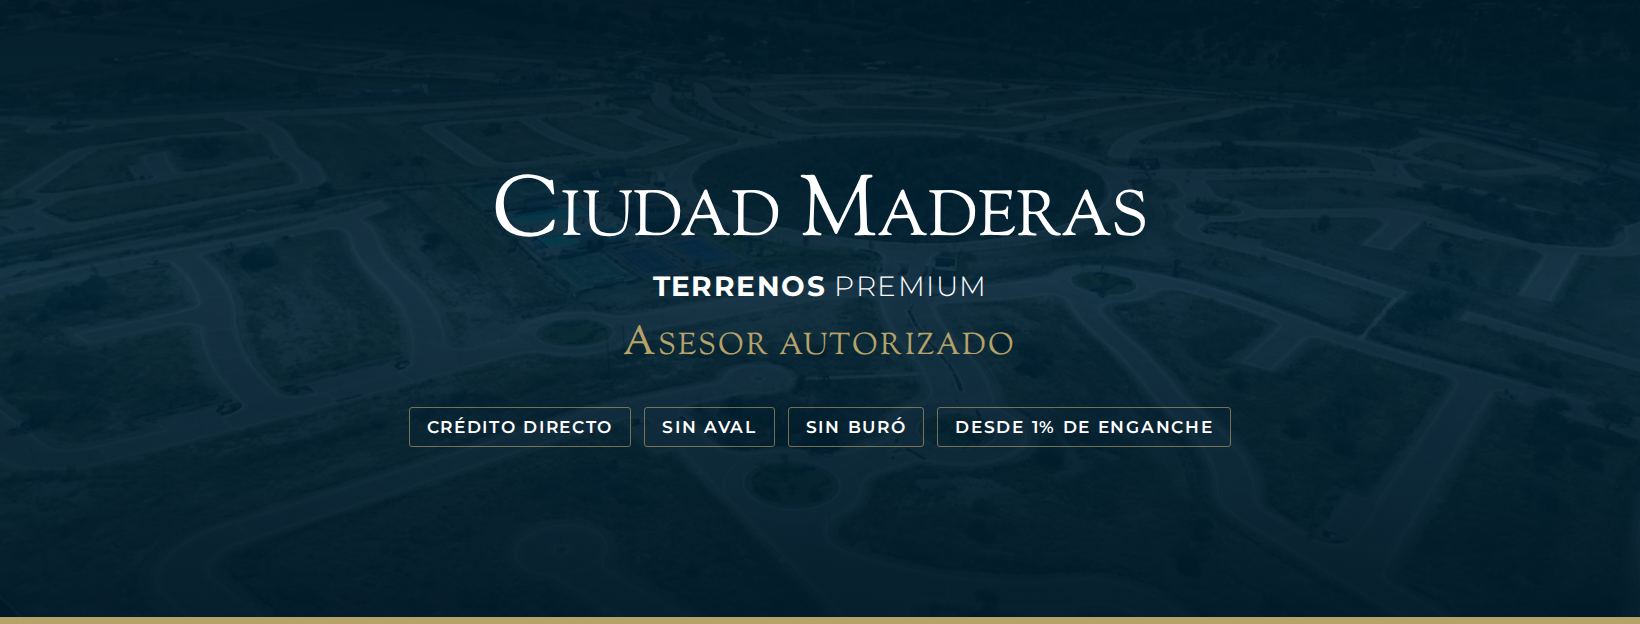
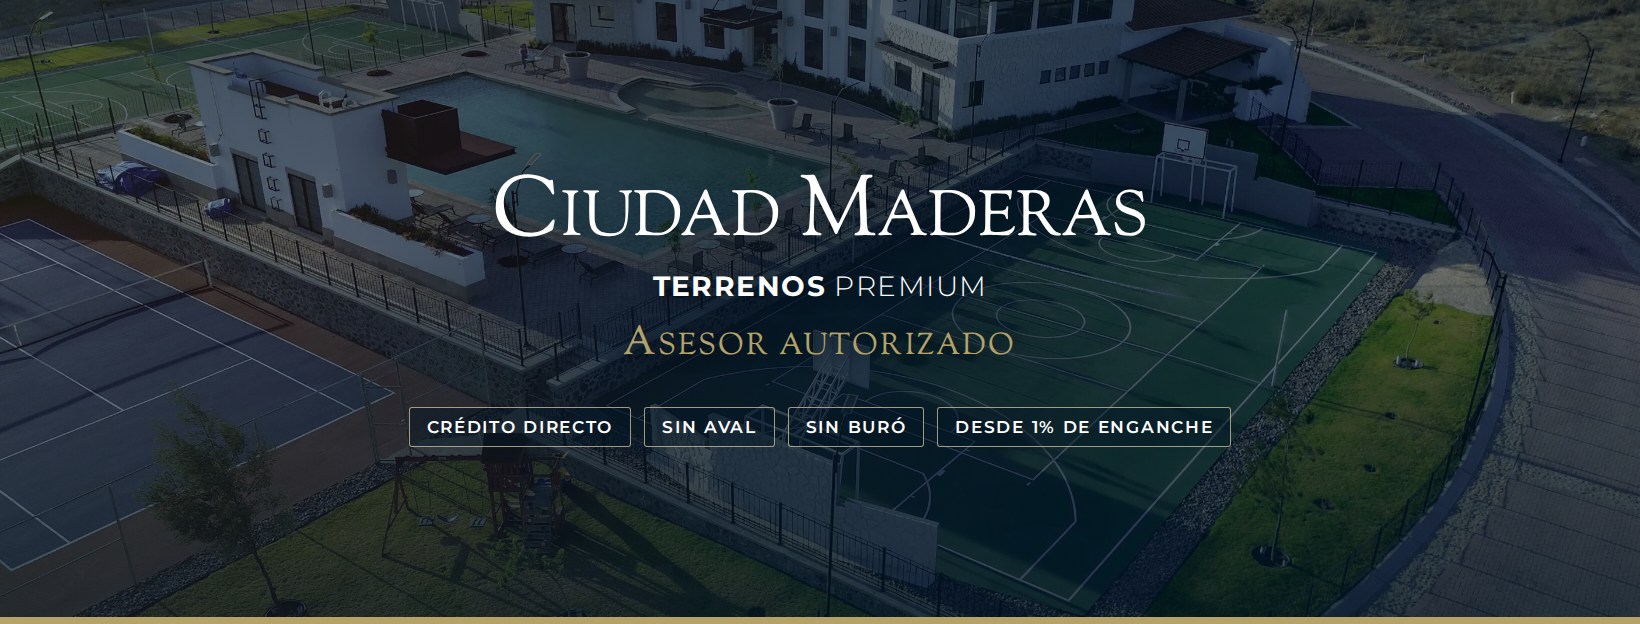
marca: la portada de Facebook va sobre una foto real de un desarrollo
Antes la foto era un fondo casi invisible (opacidad .38 bajo una cortina
lineal): no se distinguía qué era, que era justamente el punto de ponerla.

Ahora usa la casa club aérea del bucket de Ciudad Maderas —alberca, cancha
de tenis y de fútbol en una sola toma, la única de ocho candidatas que dice
"comunidad con amenidades" completa en formato ancho— a opacidad .92, con un
velo radial centrado que oscurece solo debajo del texto. El candado y los
cuatro sellos llevan sombra propia para sostenerse sobre la foto.

Verificado en los dos recortes que hace Facebook: en computadora (820x312) y
en la franja central del celular se leen completos el nombre, los dos
renglones de abajo y los cuatro sellos.

Claude-Session: https://claude.ai/code/session_018vHmmmDsoEfgzHDXUQjXcv

diff --git a/marca/marca.py b/marca/marca.py
@@ -21,7 +21,10 @@ FUENTE_URL = {
     # Las mismas dos familias que carga ciudadmaderas.com.
     "mont.woff2": "https://fonts.gstatic.com/s/montserrat/v31/JTUSjIg1_i6t8kCHKm459Wlhyw.woff2",
     "goudy.woff2": "https://fonts.gstatic.com/s/sortsmillgoudy/v16/Qw3GZR9MED_6PSuS_50nEaVrfzgEbHoEjw.woff2",
-    "aerea.webp": "https://storage.googleapis.com/landing-ciudad-maderas/mapa/desarrollo.webp",
+    # Casa club de un desarrollo real, desde el aire: alberca, cancha de tenis y
+    # de fútbol en una sola toma. Es la foto que mejor dice "comunidad con
+    # amenidades" en el formato ancho de una portada.
+    "desarrollo.webp": "https://storage.googleapis.com/landing-ciudad-maderas/website-ciudad-maderas/somos/colinas-1.webp",
 }
 
 
@@ -37,7 +40,7 @@ b64 = lambda p: base64.b64encode(open(p, "rb").read()).decode()
 
 MONT = b64(insumo("mont.woff2"))
 GOUDY = b64(insumo("goudy.woff2"))
-FOTO = b64(insumo("aerea.webp"))
+FOTO = b64(insumo("desarrollo.webp"))
 
 # Muestreados de la foto de perfil real de Ciudad Maderas.
 AZUL, AZUL2, ORO = "#11253a", "#001a28", "#b4a269"
@@ -52,12 +55,13 @@ FUENTES = f"""
 # más chico. La fuente web no trae versalitas de verdad, así que se arman con
 # dos tamaños — que es exactamente como se ve en su logo original.
 CAJA = """
-.vs{font-family:Goudy,Georgia,serif;color:#fff;line-height:.90;white-space:nowrap}
+.vs{font-family:Goudy,Georgia,serif;color:#fff;line-height:.90;white-space:nowrap;
+     text-shadow:0 2px 24px rgba(0,20,32,.75)}
 .vs i{font-style:normal;font-size:.74em}
-.bajada{font-family:Mont,sans-serif;color:#fff;white-space:nowrap}
+.bajada{font-family:Mont,sans-serif;color:#fff;white-space:nowrap;text-shadow:0 2px 16px rgba(0,20,32,.8)}
 .bajada b{font-weight:700}
 .bajada span{font-weight:300}
-.rol{font-family:Goudy,Georgia,serif;color:%s;white-space:nowrap}
+.rol{font-family:Goudy,Georgia,serif;color:%s;white-space:nowrap;text-shadow:0 2px 16px rgba(0,20,32,.8)}
 .rol i{font-style:normal;font-size:.74em}
 """ % ORO
 
@@ -124,15 +128,18 @@ PORTADA = f"""<!doctype html><meta charset="utf-8"><style>
 *{{margin:0;padding:0;box-sizing:border-box}}
 body{{width:1640px;height:624px;overflow:hidden}}
 .c{{width:1640px;height:624px;position:relative;background:{AZUL2};overflow:hidden}}
-.c>img{{position:absolute;inset:0;width:100%;height:100%;object-fit:cover;opacity:.38}}
-.velo{{position:absolute;inset:0;
-       background:linear-gradient(180deg,rgba(0,26,40,.86) 0%,rgba(0,38,58,.70) 45%,rgba(0,26,40,.92) 100%)}}
+.c>img{{position:absolute;inset:0;width:100%;height:100%;object-fit:cover;opacity:.92}}
+/* Velo suave y centrado: deja ver el desarrollo y aun así sostiene el texto.
+   Antes tapaba casi toda la foto y no se distinguía qué era. */
+.velo{{position:absolute;inset:0;background:
+  radial-gradient(ellipse 62% 78% at 50% 50%, rgba(3,22,36,.78) 0%, rgba(3,22,36,.40) 55%, rgba(3,22,36,.26) 100%),
+  linear-gradient(180deg, rgba(3,22,36,.40) 0%, rgba(3,22,36,.08) 40%, rgba(3,22,36,.60) 100%)}}
 .wrap{{position:absolute;inset:0;display:flex;flex-direction:column;align-items:center;
        justify-content:center;text-align:center;padding:0 280px}}
 .datos{{display:flex;gap:13px;margin-top:34px;flex-wrap:nowrap}}
 .datos span{{font-family:Mont,sans-serif;font-weight:600;font-size:17px;letter-spacing:.10em;
-             text-transform:uppercase;color:#fff;border:1px solid rgba(180,162,105,.62);
-             padding:9px 17px;border-radius:3px;white-space:nowrap}}
+             text-transform:uppercase;color:#fff;border:1px solid rgba(220,206,158,.72);
+             padding:9px 17px;border-radius:3px;white-space:nowrap;background:rgba(3,22,36,.42)}}
 .regla{{position:absolute;left:0;right:0;bottom:0;height:7px;background:{ORO}}}
 </style>
 <div class="c">

diff --git a/marca/README.md b/marca/README.md
@@ -15,7 +15,15 @@ serif con versalitas. Debajo va el mismo ritmo de dos renglones que el original
 —uno dorado y uno claro—, pero diciendo lo que aquí sí aplica: **TERRENOS
 PREMIUM** (no "y casas", que el asesor no vende) y **ASESOR AUTORIZADO**.
 
-La **portada** usa el candado horizontal, como el encabezado de su sitio.
+La **portada** usa el candado horizontal, como el encabezado de su sitio, sobre
+una **foto real de un desarrollo**: la casa club vista desde el aire (alberca,
+cancha de tenis y de fútbol en una sola toma), del propio bucket de Ciudad
+Maderas. Se eligió esa de entre ocho candidatas porque es la única que dice
+"comunidad con amenidades" completa en el formato ancho de una portada.
+
+El velo encima es suave y centrado, no una cortina: oscurece lo justo debajo del
+texto y deja ver el desarrollo. Un primer intento lo tapaba tanto que no se
+distinguía qué era la foto, que era justamente el punto de ponerla.
 
 Las versalitas se arman con dos tamaños (inicial completa, resto al 74%) porque
 la fuente web no las trae de verdad — que es exactamente como se ve el original.
